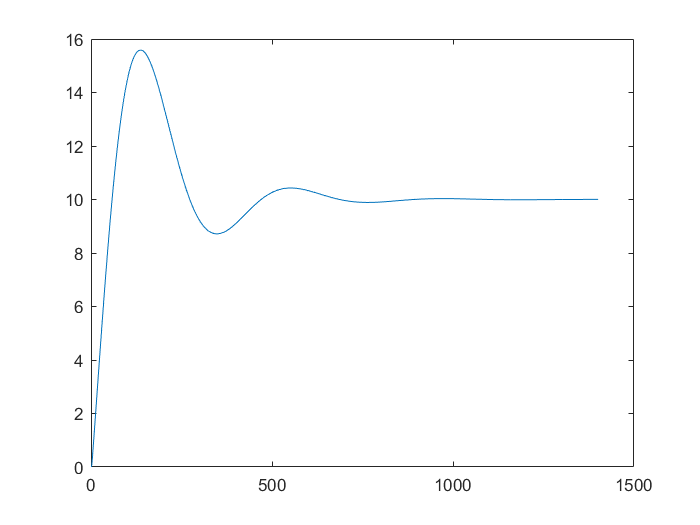
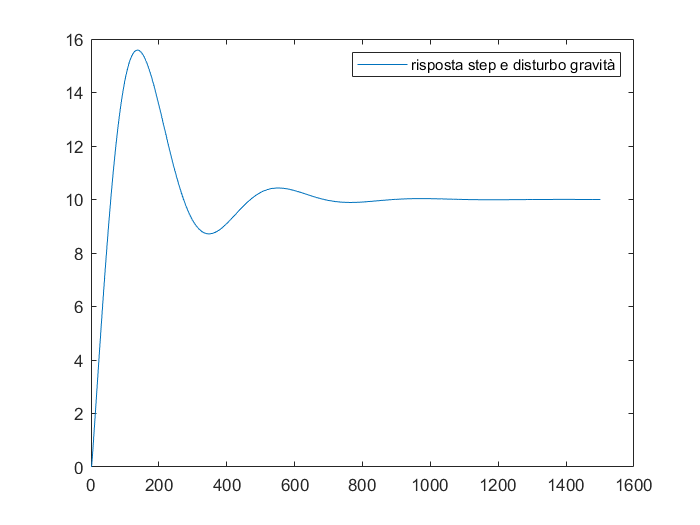
Update rampa

diff --git a/Esperimenti_droni_2d/drone_2d_FdT_v2.m b/Esperimenti_droni_2d/drone_2d_FdT_v2.m
@@ -299,3 +299,42 @@ hold
 bode(fdtClosedLoopyDisc)
 legend()
 % ----------------- FINE PLOT BODE RESPONSE SISTEMI DISCRETI --------------
+
+%% risposta complessiva al gradino
+
+Tfinal = 15;
+desiredHeight = 10;
+
+gradino = desiredHeight*step( tf(1), Tfinal );
+
+figure
+plot(gradino)
+hold
+plot( desiredHeight*step(fdtClosedLoopzDisc, Tfinal) + ...
+    step(fdtClosedLoopGDisc, Tfinal) )
+grid on
+legend('risposta step e disturbo gravità')
+
+%% risposta complessiva alla rampa (saturata)
+
+slope = desiredHeight/2; % Se uguale ad altezza, è raggiunta in 1 sec
+t = 0:Tc:Tfinal;
+ramp = max(0, min(slope*t,desiredHeight));
+
+rampResponse = lsim(fdtClosedLoopzDisc, ramp, t);
+
+figure
+plot( t, rampResponse + step(fdtClosedLoopGDisc, Tfinal) )
+grid on
+legend('risposta step e disturbo gravità')
+
+%% confronto risposta step e rampa
+
+figure
+plot( t, desiredHeight*step(fdtClosedLoopzDisc, Tfinal) + ...
+    step(fdtClosedLoopGDisc, Tfinal) )
+hold
+plot( t,ramp)
+plot( t, rampResponse + step(fdtClosedLoopGDisc, Tfinal) )
+grid on
+legend('step response, with gravity', 'ramp', 'ramp response, with gravity');
